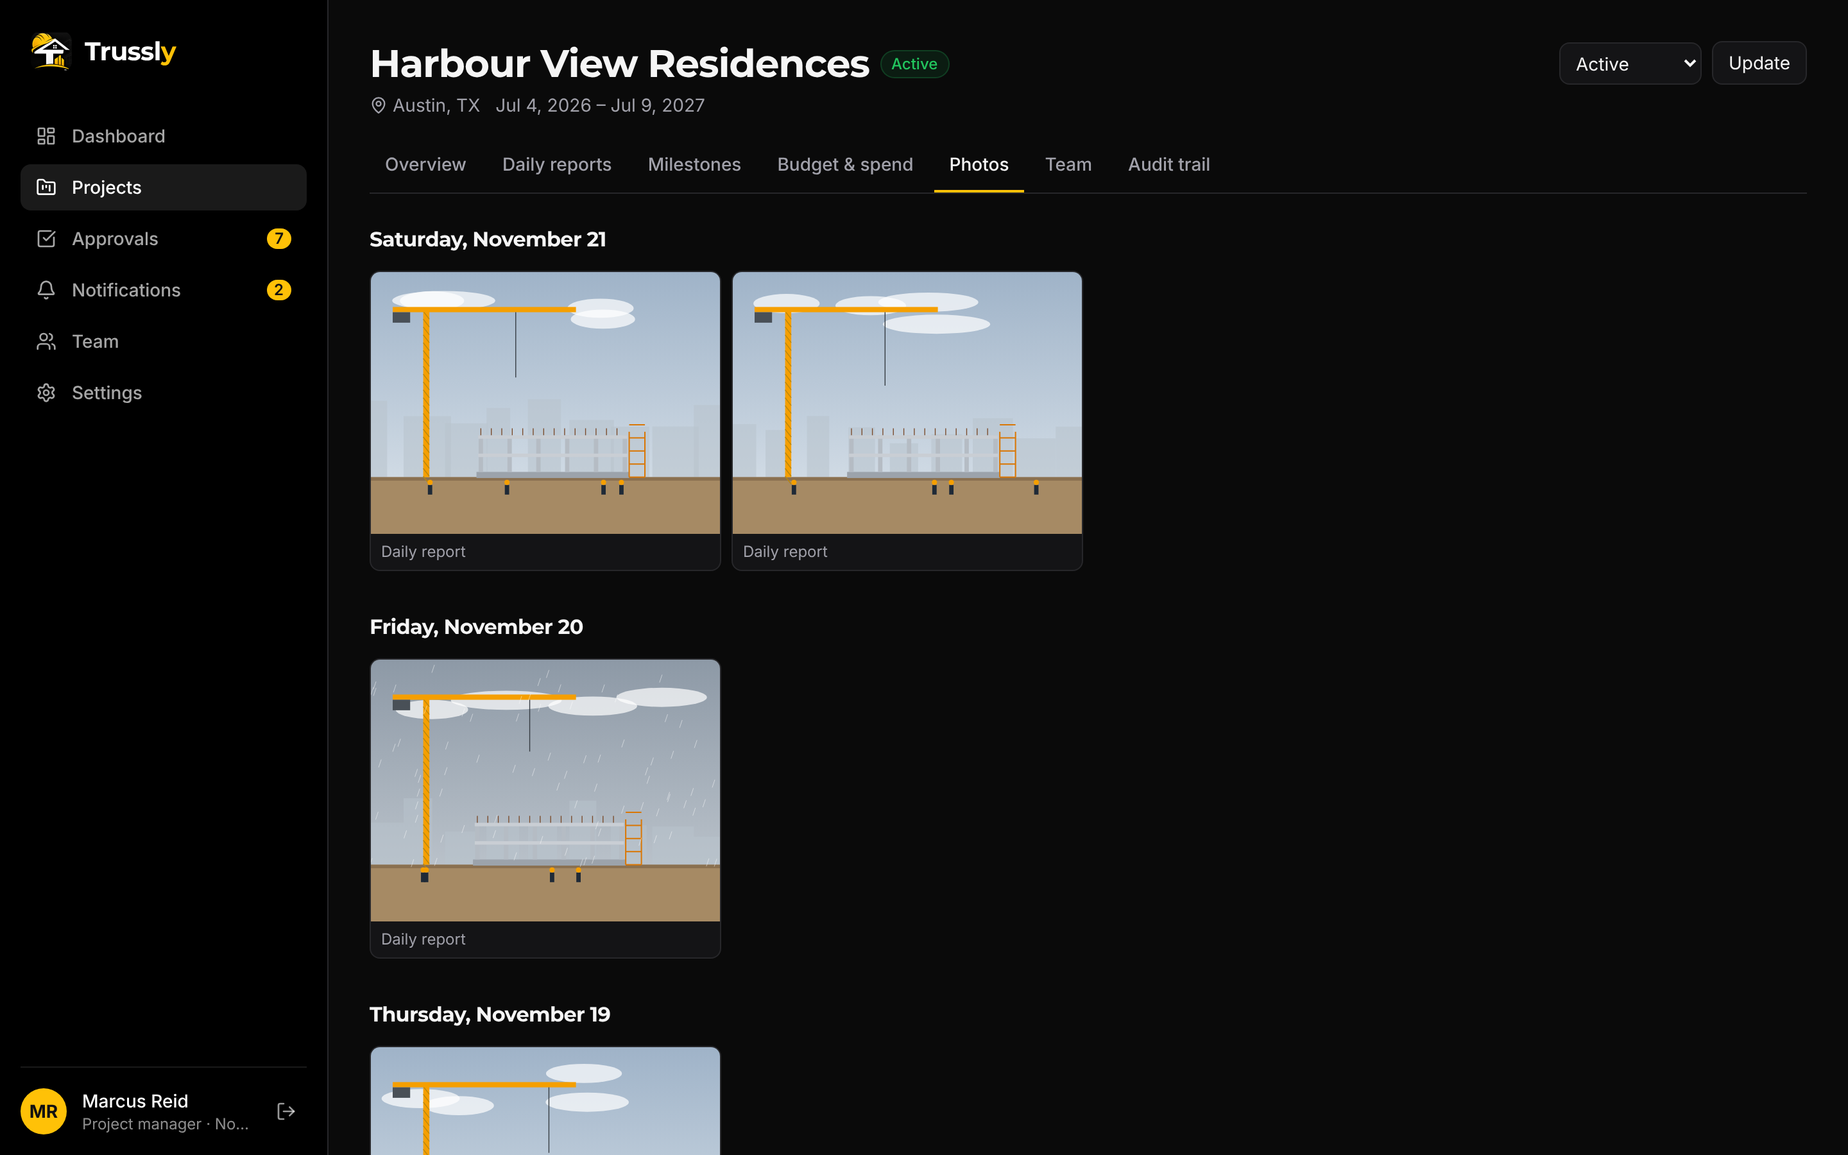
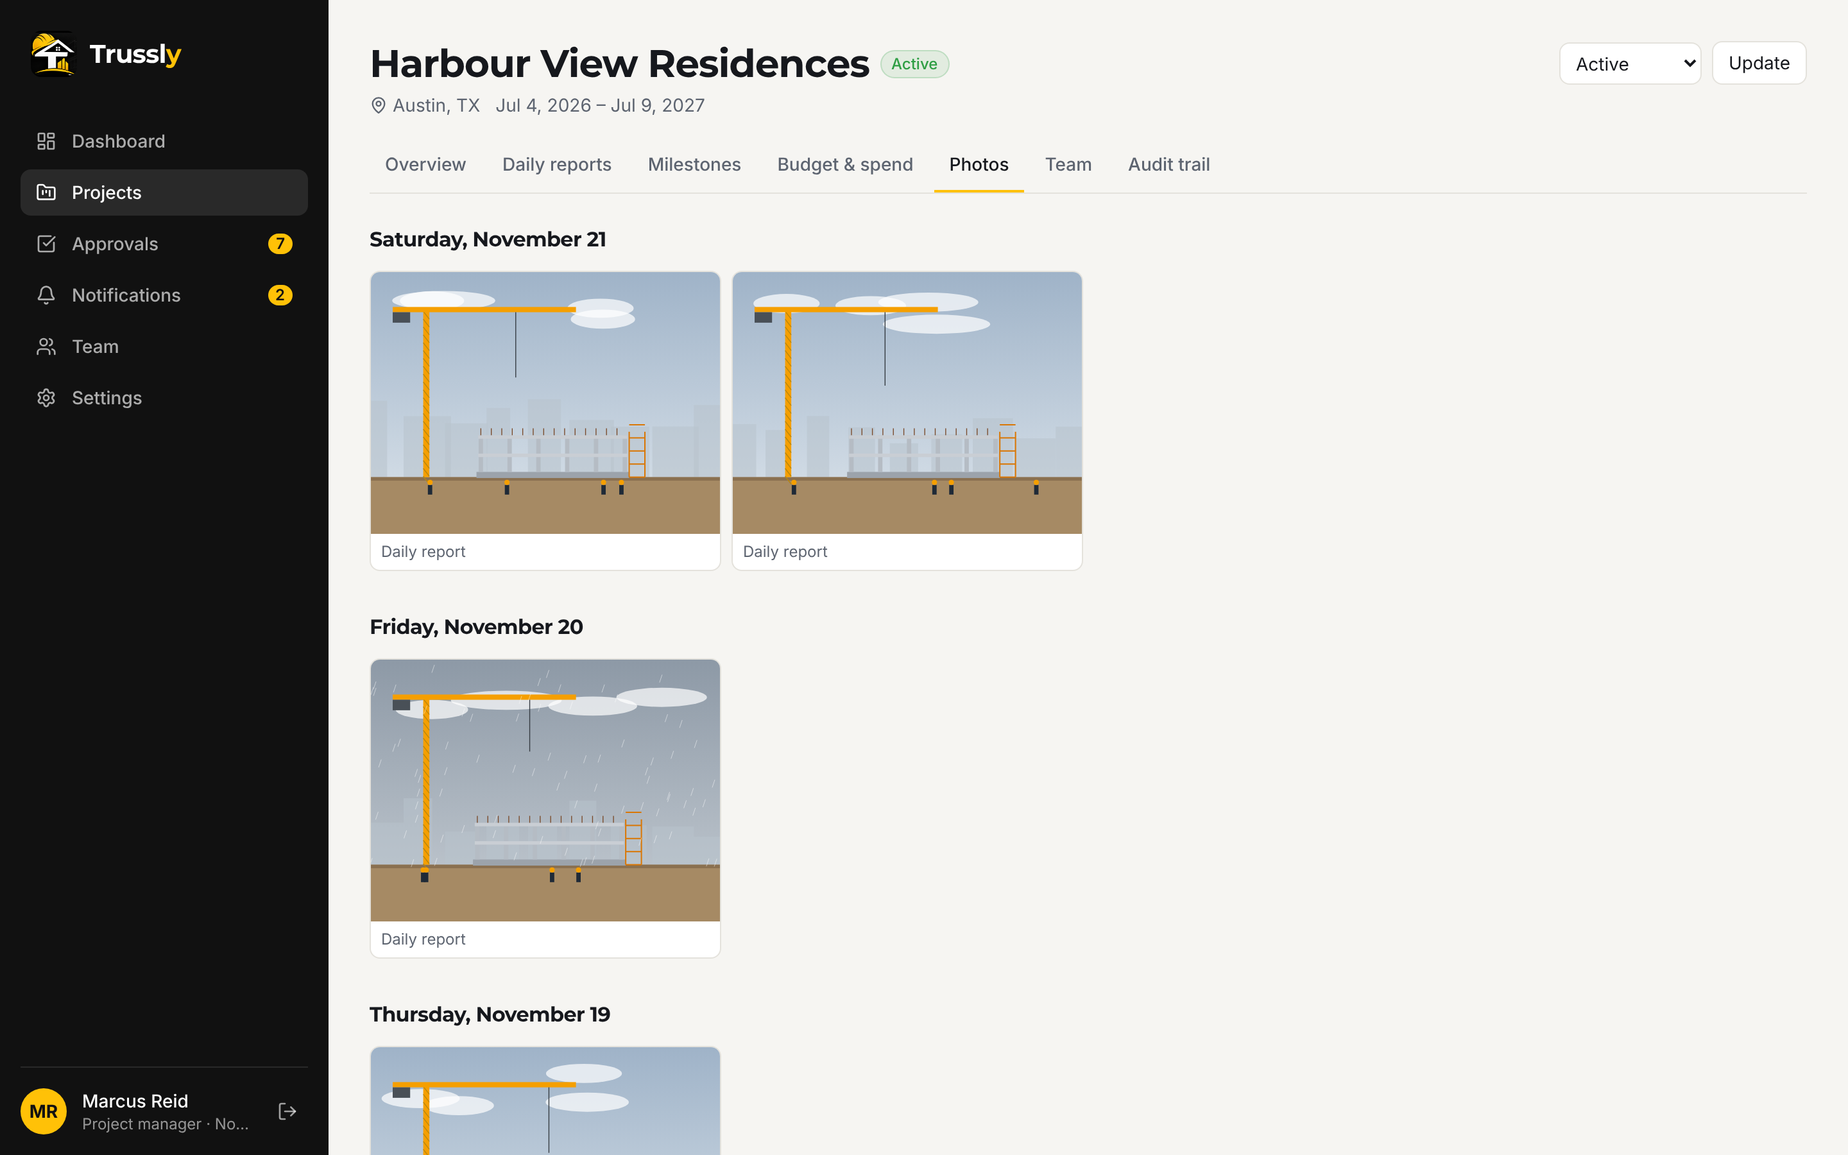
Open on the light login and demo page
The front page is now the sign-in gate: log in, create an account, or
tap a demo role to get straight in. The light theme is back, with the
Trussly logo and yellow accents. The product tour moves to /about.

diff --git a/src/components/charts.tsx b/src/components/charts.tsx
@@ -17,11 +17,9 @@ import {
 const money = (currency: string) => (v: number) =>
   new Intl.NumberFormat("en-US", { style: "currency", currency, notation: "compact", maximumFractionDigits: 1 }).format(v);
 
-const axis = { fontSize: 12, fill: "#a1a1aa" };
+const axis = { fontSize: 12, fill: "#5d6470" };
 const tip = {
-  contentStyle: { background: "#141416", border: "1px solid #27272a", borderRadius: 8, color: "#f5f5f5" },
-  labelStyle: { color: "#a1a1aa" },
-  itemStyle: { color: "#f5f5f5" },
+  contentStyle: { borderRadius: 8, border: "1px solid #e4e2dc" },
 };
 const day = (t: number) => new Date(t).toLocaleDateString("en-US", { month: "short", day: "numeric" });
 const timeAxis = { dataKey: "t", type: "number" as const, domain: ["dataMin", "dataMax"] as [string, string], tickFormatter: day, tick: axis, axisLine: false, tickLine: false, minTickGap: 28 };
@@ -31,13 +29,13 @@ export function BudgetChart({ data, currency }: { data: { category: string; budg
   return (
     <ResponsiveContainer width="100%" height={Math.max(220, data.length * 44)}>
       <BarChart data={data} layout="vertical" margin={{ left: 8, right: 16 }} barGap={2}>
-        <CartesianGrid horizontal={false} stroke="#27272a" />
+        <CartesianGrid horizontal={false} stroke="#ece9e3" />
         <XAxis type="number" tickFormatter={fmt} tick={axis} axisLine={false} tickLine={false} />
         <YAxis type="category" dataKey="category" width={130} tick={axis} axisLine={false} tickLine={false} />
-        <Tooltip formatter={(v) => fmt(Number(v))} cursor={{ fill: "rgba(255,255,255,0.04)" }} {...tip} />
+        <Tooltip formatter={(v) => fmt(Number(v))} cursor={{ fill: "#f6f5f2" }} {...tip} />
         <Legend wrapperStyle={{ fontSize: 12 }} />
-        <Bar dataKey="budgeted" name="Budget" fill="#3f3f46" radius={[0, 4, 4, 0]} barSize={12} />
-        <Bar dataKey="spent" name="Spent" fill="#ffc107" radius={[0, 4, 4, 0]} barSize={12} />
+        <Bar dataKey="budgeted" name="Budget" fill="#d6d3cc" radius={[0, 4, 4, 0]} barSize={12} />
+        <Bar dataKey="spent" name="Spent" fill="#f0a500" radius={[0, 4, 4, 0]} barSize={12} />
       </BarChart>
     </ResponsiveContainer>
   );
@@ -47,13 +45,13 @@ export function ProgressChart({ data }: { data: { t: number; actual: number; pla
   return (
     <ResponsiveContainer width="100%" height={240}>
       <LineChart data={data} margin={{ left: -16, right: 8, top: 8 }}>
-        <CartesianGrid vertical={false} stroke="#27272a" />
+        <CartesianGrid vertical={false} stroke="#ece9e3" />
         <XAxis {...timeAxis} />
         <YAxis domain={[0, 100]} tickFormatter={(v) => `${v}%`} tick={axis} axisLine={false} tickLine={false} />
         <Tooltip formatter={(v) => `${v}%`} labelFormatter={(t) => day(Number(t))} {...tip} />
         <Legend wrapperStyle={{ fontSize: 12 }} />
-        <Line isAnimationActive={false} type="monotone" dataKey="planned" name="Planned" stroke="#71717a" strokeDasharray="5 4" dot={false} strokeWidth={2} />
-        <Line isAnimationActive={false} type="monotone" dataKey="actual" name="Reported on site" stroke="#ffc107" dot={false} strokeWidth={2.5} />
+        <Line isAnimationActive={false} type="monotone" dataKey="planned" name="Planned" stroke="#9aa3af" strokeDasharray="5 4" dot={false} strokeWidth={2} />
+        <Line isAnimationActive={false} type="monotone" dataKey="actual" name="Reported on site" stroke="#f0a500" dot={false} strokeWidth={2.5} />
       </LineChart>
     </ResponsiveContainer>
   );
@@ -64,12 +62,12 @@ export function SpendChart({ data, budget, currency }: { data: { t: number; spen
   return (
     <ResponsiveContainer width="100%" height={240}>
       <LineChart data={data} margin={{ left: 0, right: 8, top: 8 }}>
-        <CartesianGrid vertical={false} stroke="#27272a" />
+        <CartesianGrid vertical={false} stroke="#ece9e3" />
         <XAxis {...timeAxis} />
         <YAxis tickFormatter={fmt} tick={axis} axisLine={false} tickLine={false} domain={[0, Math.max(budget * 1.05, 1)]} />
         <Tooltip formatter={(v) => fmt(Number(v))} labelFormatter={(t) => day(Number(t))} {...tip} />
-        <ReferenceLine y={budget} stroke="#f87171" strokeDasharray="4 4" label={{ value: "Budget", position: "insideTopRight", fontSize: 12, fill: "#f87171" }} />
-        <Line isAnimationActive={false} type="stepAfter" dataKey="spent" name="Approved spend" stroke="#ffc107" dot={false} strokeWidth={2.5} />
+        <ReferenceLine y={budget} stroke="#c92a2a" strokeDasharray="4 4" label={{ value: "Budget", position: "insideTopRight", fontSize: 12, fill: "#c92a2a" }} />
+        <Line isAnimationActive={false} type="stepAfter" dataKey="spent" name="Approved spend" stroke="#111111" dot={false} strokeWidth={2.5} />
       </LineChart>
     </ResponsiveContainer>
   );

diff --git a/src/app/about/page.tsx b/src/app/about/page.tsx
@@ -46,6 +46,8 @@ const STEPS = [
   ["Watch the numbers", "The dashboard flags projects that are behind plan or heading over budget."],
 ];
 
+export const metadata = { title: "About" };
+
 export default async function Landing() {
   if (await getCurrentUser()) redirect("/dashboard");
   return (
@@ -54,7 +56,7 @@ export default async function Landing() {
       <section className="blueprint relative overflow-hidden bg-steel text-white">
         <div className="absolute -top-40 right-0 h-[28rem] w-[28rem] rounded-full bg-brand/25 blur-3xl" />
         <header className="relative mx-auto flex max-w-6xl items-center justify-between px-4 py-5 sm:px-6">
-          <Logo tagline />
+          <Logo dark tagline />
           <nav className="flex items-center gap-2 text-sm">
             <Link href="/login" className="rounded-lg px-3 py-2 text-white/80 hover:text-white">
               Log in
@@ -112,7 +114,7 @@ export default async function Landing() {
         <div className="mt-12 grid gap-px overflow-hidden rounded-2xl border border-line bg-line sm:grid-cols-2 lg:grid-cols-3">
           {FEATURES.map(({ Icon, title, body }) => (
             <div key={title} className="bg-surface p-7">
-              <Icon className="h-6 w-6 text-brand" />
+              <Icon className="h-6 w-6 text-brand-text" />
               <h3 className="font-display mt-4 text-lg font-semibold">{title}</h3>
               <p className="mt-2 text-sm leading-relaxed text-muted">{body}</p>
             </div>
@@ -135,10 +137,10 @@ export default async function Landing() {
           </ol>
           <div className="mt-12 flex flex-wrap gap-6 text-sm text-muted">
             <span className="flex items-center gap-2">
-              <Smartphone className="h-4 w-4 text-brand" /> Works on any phone, no app to install
+              <Smartphone className="h-4 w-4 text-brand-text" /> Works on any phone, no app to install
             </span>
             <span className="flex items-center gap-2">
-              <Bell className="h-4 w-4 text-brand" /> Email and in-app alerts
+              <Bell className="h-4 w-4 text-brand-text" /> Email and in-app alerts
             </span>
           </div>
         </div>
@@ -170,7 +172,7 @@ export default async function Landing() {
 function Fact({ value, label }: { value: string; label: string }) {
   return (
     <div>
-      <p className="font-display text-5xl font-semibold text-brand">{value}</p>
+      <p className="font-display text-5xl font-semibold text-brand-text">{value}</p>
       <p className="mt-2 text-muted">{label}</p>
     </div>
   );

diff --git a/src/app/(app)/projects/[id]/page.tsx b/src/app/(app)/projects/[id]/page.tsx
@@ -71,7 +71,7 @@ export default async function ProjectOverview({ params }: PageProps<"/projects/[
 
       <div className="grid gap-6 lg:grid-cols-3">
         <Card className="lg:col-span-2">
-          <CardHeader title="Budget vs actual by line" action={<Link href={`/projects/${id}/budget`} className="text-sm text-brand hover:underline">Details</Link>} />
+          <CardHeader title="Budget vs actual by line" action={<Link href={`/projects/${id}/budget`} className="text-sm text-brand-text hover:underline">Details</Link>} />
           <div className="p-4">
             <BudgetChart currency={currency} data={s.budget.lines.map((l) => ({ category: l.category, budgeted: l.budgeted / 100, spent: l.spent / 100 }))} />
           </div>
@@ -97,13 +97,13 @@ export default async function ProjectOverview({ params }: PageProps<"/projects/[
                   <AlertTriangle className="h-4 w-4" /> {s.overdue.length} overdue
                 </p>
               )}
-              <Link href={`/projects/${id}/milestones`} className="mt-4 inline-block text-brand hover:underline">
+              <Link href={`/projects/${id}/milestones`} className="mt-4 inline-block text-brand-text hover:underline">
                 All milestones
               </Link>
             </div>
           </Card>
           <Card>
-            <CardHeader title="Latest photos" action={<Link href={`/projects/${id}/photos`} className="text-sm text-brand hover:underline">All</Link>} />
+            <CardHeader title="Latest photos" action={<Link href={`/projects/${id}/photos`} className="text-sm text-brand-text hover:underline">All</Link>} />
             {photos.length ? (
               <div className="grid grid-cols-3 gap-1 p-2">
                 {photos.map((p) => (

diff --git a/src/app/(app)/dashboard/page.tsx b/src/app/(app)/dashboard/page.tsx
@@ -60,7 +60,7 @@ export default async function DashboardPage() {
           <div className="grid grid-cols-2 gap-3 lg:grid-cols-4">
             <Stat label="Total budget" value={formatMoney(budget, currency, true)} sub={`${summaries.length} active sites`} />
             <Stat label="Approved spend" value={formatMoney(spent, currency, true)} sub={`${budget ? Math.round((spent / budget) * 100) : 0}% of budget`} />
-            <Stat label="Waiting on you" value={pending} sub={<Link href="/approvals" className="text-brand hover:underline">Open approvals</Link>} tone={pending ? "warn" : undefined} />
+            <Stat label="Waiting on you" value={pending} sub={<Link href="/approvals" className="text-brand-text hover:underline">Open approvals</Link>} tone={pending ? "warn" : undefined} />
             <Stat label="Projects at risk" value={atRisk.length} sub={atRisk.length ? atRisk.map((s) => s.project.name).join(", ") : "All on track"} tone={atRisk.length ? "bad" : "ok"} />
           </div>
 
@@ -73,7 +73,7 @@ export default async function DashboardPage() {
                   <ul className="mt-1 space-y-0.5 text-muted">
                     {warnings.map((w) => (
                       <li key={w.id}>
-                        <Link href={`/projects/${w.project.id}/budget`} className="font-medium text-ink hover:text-brand">
+                        <Link href={`/projects/${w.project.id}/budget`} className="font-medium text-ink hover:text-brand-text">
                           {w.project.name}
                         </Link>
                         : {w.category} is at {Math.round(w.ratio * 100)}% ({formatMoney(w.spent, currency)} of {formatMoney(w.budgeted, currency)})

diff --git a/src/app/(auth)/login/page.tsx b/src/app/(auth)/login/page.tsx
@@ -7,6 +7,8 @@ import { login } from "@/app/actions/auth";
 
 export const metadata: Metadata = { title: "Log in" };
 
+const DEMO_NOTE = "No sign-up needed. Pick a role and you're in.";
+
 export default function LoginPage() {
   return (
     <div>
@@ -20,20 +22,26 @@ export default function LoginPage() {
           <Input name="password" type="password" autoComplete="current-password" required />
         </Field>
         <div className="text-right text-sm">
-          <Link href="/forgot-password" className="text-brand hover:underline">
+          <Link href="/forgot-password" className="text-brand-text hover:underline">
             Forgot password?
           </Link>
         </div>
       </ActionForm>
       <p className="mt-6 text-center text-sm text-muted">
         New to Trussly?{" "}
-        <Link href="/signup" className="font-medium text-brand hover:underline">
+        <Link href="/signup" className="font-medium text-brand-text hover:underline">
           Create an account
         </Link>
       </p>
       <div className="mt-10 border-t border-line pt-6">
-        <p className="mb-3 text-sm font-medium">Or explore the demo as…</p>
+        <p className="text-sm font-medium">Or explore the demo as…</p>
+        <p className="mt-1 mb-3 text-xs text-muted">{DEMO_NOTE}</p>
         <DemoPicker compact />
+        <p className="mt-6 text-center text-sm text-muted">
+          <Link href="/about" className="hover:text-ink hover:underline">
+            What is Trussly? Take the tour
+          </Link>
+        </p>
       </div>
     </div>
   );

diff --git a/src/components/logo.tsx b/src/components/logo.tsx
@@ -1,19 +1,23 @@
 import Link from "next/link";
 
-export function LogoMark({ className = "h-8 w-8" }: { className?: string }) {
+export function LogoMark({ className = "h-9 w-9" }: { className?: string }) {
   // eslint-disable-next-line @next/next/no-img-element
   return <img src="/brand/trussly-mark.png" alt="" aria-hidden="true" className={`${className} rounded-lg`} />;
 }
 
-export function Logo({ href = "/", tagline = false }: { dark?: boolean; href?: string; tagline?: boolean }) {
+export function Logo({ dark = false, href = "/", tagline = false }: { dark?: boolean; href?: string; tagline?: boolean }) {
   return (
     <Link href={href} className="flex items-center gap-2.5">
       <LogoMark />
       <span className="flex flex-col leading-none">
-        <span className="font-display text-xl font-extrabold tracking-tight text-white">
-          Trussl<span className="text-brand">y</span>
+        <span className={`font-display text-xl font-extrabold tracking-tight ${dark ? "text-white" : "text-ink"}`}>
+          Trussl<span className={dark ? "text-brand" : "text-brand-text"}>y</span>
         </span>
-        {tagline && <span className="mt-1 text-[10px] font-medium tracking-[0.18em] text-white/60 uppercase">Plan • Build • Manage</span>}
+        {tagline && (
+          <span className={`mt-1 text-[10px] font-semibold tracking-[0.18em] uppercase ${dark ? "text-white/60" : "text-muted"}`}>
+            Plan • Build • Manage
+          </span>
+        )}
       </span>
     </Link>
   );

diff --git a/src/app/globals.css b/src/app/globals.css
@@ -1,19 +1,19 @@
 @import "tailwindcss";
 
 :root {
-  color-scheme: dark;
-  --bg: #0a0a0a;
-  --surface: #141416;
-  --ink: #f5f5f5;
-  --muted: #a1a1aa;
-  --line: #27272a;
+  --bg: #f6f5f2;
+  --surface: #ffffff;
+  --ink: #16181d;
+  --muted: #5d6470;
+  --line: #e4e2dc;
   --brand: #ffc107;
   --brand-ink: #111111;
-  --brand-soft: rgba(255, 193, 7, 0.12);
-  --steel: #000000;
-  --ok: #22c55e;
-  --warn: #fb923c;
-  --bad: #f87171;
+  --brand-soft: #fff8e1;
+  --brand-text: #9a6700;
+  --steel: #111111;
+  --ok: #2f9e44;
+  --warn: #e8590c;
+  --bad: #c92a2a;
 }
 
 @theme inline {
@@ -25,6 +25,7 @@
   --color-brand: var(--brand);
   --color-brand-ink: var(--brand-ink);
   --color-brand-soft: var(--brand-soft);
+  --color-brand-text: var(--brand-text);
   --color-steel: var(--steel);
   --color-ok: var(--ok);
   --color-warn: var(--warn);
@@ -47,7 +48,7 @@ body {
 /* Subtle blueprint grid used on dark hero sections */
 .blueprint {
   background-image:
-    linear-gradient(rgba(255, 193, 7, 0.05) 1px, transparent 1px),
-    linear-gradient(90deg, rgba(255, 193, 7, 0.05) 1px, transparent 1px);
+    linear-gradient(rgba(255, 193, 7, 0.07) 1px, transparent 1px),
+    linear-gradient(90deg, rgba(255, 193, 7, 0.07) 1px, transparent 1px);
   background-size: 32px 32px;
 }

diff --git a/src/app/(auth)/layout.tsx b/src/app/(auth)/layout.tsx
@@ -4,7 +4,7 @@ export default function AuthLayout({ children }: LayoutProps<"/">) {
   return (
     <div className="grid min-h-screen lg:grid-cols-2">
       <div className="flex flex-col px-6 py-8 sm:px-12">
-        <Logo tagline />
+        <Logo tagline href="/" />
         <div className="flex flex-1 items-center">
           <div className="mx-auto w-full max-w-sm py-10">{children}</div>
         </div>
@@ -12,7 +12,7 @@ export default function AuthLayout({ children }: LayoutProps<"/">) {
       <div className="blueprint relative hidden flex-col justify-end overflow-hidden border-l border-line bg-steel p-12 text-white lg:flex">
         <div className="absolute -top-24 -right-24 h-96 w-96 rounded-full bg-brand/20 blur-3xl" />
         {/* eslint-disable-next-line @next/next/no-img-element */}
-        <img src="/brand/trussly-logo.png" alt="Trussly" className="relative mb-auto h-56 w-56 self-center rounded-3xl" />
+        <img src="/brand/trussly-logo.png" alt="Trussly" className="relative mb-auto h-56 w-56 self-center rounded-[3.25rem]" />
         <p className="font-display relative max-w-md text-3xl leading-tight font-semibold">
           85% of construction projects run over budget. <span className="text-brand">See yours before it does.</span>
         </p>

diff --git a/src/components/ui.tsx b/src/components/ui.tsx
@@ -9,10 +9,10 @@ export function cn(...args: Parameters<typeof clsx>) {
 const buttonStyles = {
   primary: "bg-brand text-brand-ink hover:bg-[#ffb300] shadow-sm",
   secondary: "bg-surface text-ink border border-line hover:bg-bg",
-  dark: "bg-white/10 text-white border border-white/10 hover:bg-white/15",
+  dark: "bg-steel text-white hover:bg-black",
   ghost: "text-muted hover:text-ink hover:bg-bg",
   danger: "bg-surface text-bad border border-bad/30 hover:bg-bad/5",
-  success: "bg-ok text-black hover:bg-[#16a34a]",
+  success: "bg-ok text-white hover:bg-[#2b8a3e]",
 };
 
 type Variant = keyof typeof buttonStyles;
@@ -50,11 +50,11 @@ export function CardHeader({ title, action, subtitle }: { title: ReactNode; subt
 
 const badgeTones = {
   neutral: "bg-bg text-muted border-line",
-  brand: "bg-brand-soft text-brand border-brand/20",
+  brand: "bg-brand-soft text-brand-text border-brand/20",
   ok: "bg-ok/10 text-ok border-ok/20",
   warn: "bg-warn/10 text-warn border-warn/20",
   bad: "bg-bad/10 text-bad border-bad/20",
-  steel: "bg-white/10 text-white border-white/20",
+  steel: "bg-steel text-white border-steel",
 };
 
 export type Tone = keyof typeof badgeTones;

diff --git a/src/app/(app)/layout.tsx b/src/app/(app)/layout.tsx
@@ -39,7 +39,7 @@ export default async function AppLayout({ children }: LayoutProps<"/">) {
 
   return (
     <div className="min-h-screen lg:flex">
-      <aside className="sticky top-0 hidden h-screen w-64 shrink-0 flex-col border-r border-line bg-steel p-4 lg:flex">
+      <aside className="sticky top-0 hidden h-screen w-64 shrink-0 flex-col bg-steel p-4 lg:flex">
         <div className="px-2 py-2">
           <Logo dark href="/dashboard" />
         </div>
@@ -48,7 +48,7 @@ export default async function AppLayout({ children }: LayoutProps<"/">) {
         </div>
         <div className="border-t border-white/10 pt-4">{userBlock}</div>
       </aside>
-      <header className="sticky top-0 z-20 border-b border-line bg-steel lg:hidden">
+      <header className="sticky top-0 z-20 bg-steel lg:hidden">
         <div className="flex items-center justify-between px-4 py-3">
           <Logo dark href="/dashboard" />
           <form action={logout}>

diff --git a/src/app/(app)/projects/[id]/milestones/page.tsx b/src/app/(app)/projects/[id]/milestones/page.tsx
@@ -63,7 +63,7 @@ export default async function MilestonesPage({ params }: PageProps<"/projects/[i
               <ol className="mt-4 grid grid-cols-3 gap-2 text-xs">
                 {["Contractor submits", "Manager inspects", "Owner signs off"].map((label, step) => (
                   <li key={label} className="flex items-center gap-2">
-                    <span className={cn("flex h-5 w-5 shrink-0 items-center justify-center rounded-full border", step <= reached ? "border-ok bg-ok text-black" : "border-line text-muted")}>
+                    <span className={cn("flex h-5 w-5 shrink-0 items-center justify-center rounded-full border", step <= reached ? "border-ok bg-ok text-white" : "border-line text-muted")}>
                       {step <= reached ? <Check className="h-3 w-3" /> : step + 1}
                     </span>
                     <span className={step <= reached ? "font-medium" : "text-muted"}>{label}</span>

diff --git a/src/components/project-card.tsx b/src/components/project-card.tsx
@@ -17,12 +17,12 @@ export function ProjectCard({ s, currency }: { s: ProjectSummary; currency: stri
           ) : (
             <div className="blueprint h-full w-full" />
           )}
-          <div className="absolute top-3 right-3 rounded-full bg-black/80 backdrop-blur">
+          <div className="absolute top-3 right-3 rounded-full bg-white/90 backdrop-blur">
             <Badge tone={h.tone}>{h.label}</Badge>
           </div>
         </div>
         <div className="p-5">
-          <h3 className="font-display font-semibold group-hover:text-brand">{s.project.name}</h3>
+          <h3 className="font-display font-semibold group-hover:text-brand-text">{s.project.name}</h3>
           <p className="mt-1 flex items-center gap-1 text-sm text-muted">
             <MapPin className="h-3.5 w-3.5" /> {s.project.location}
           </p>
